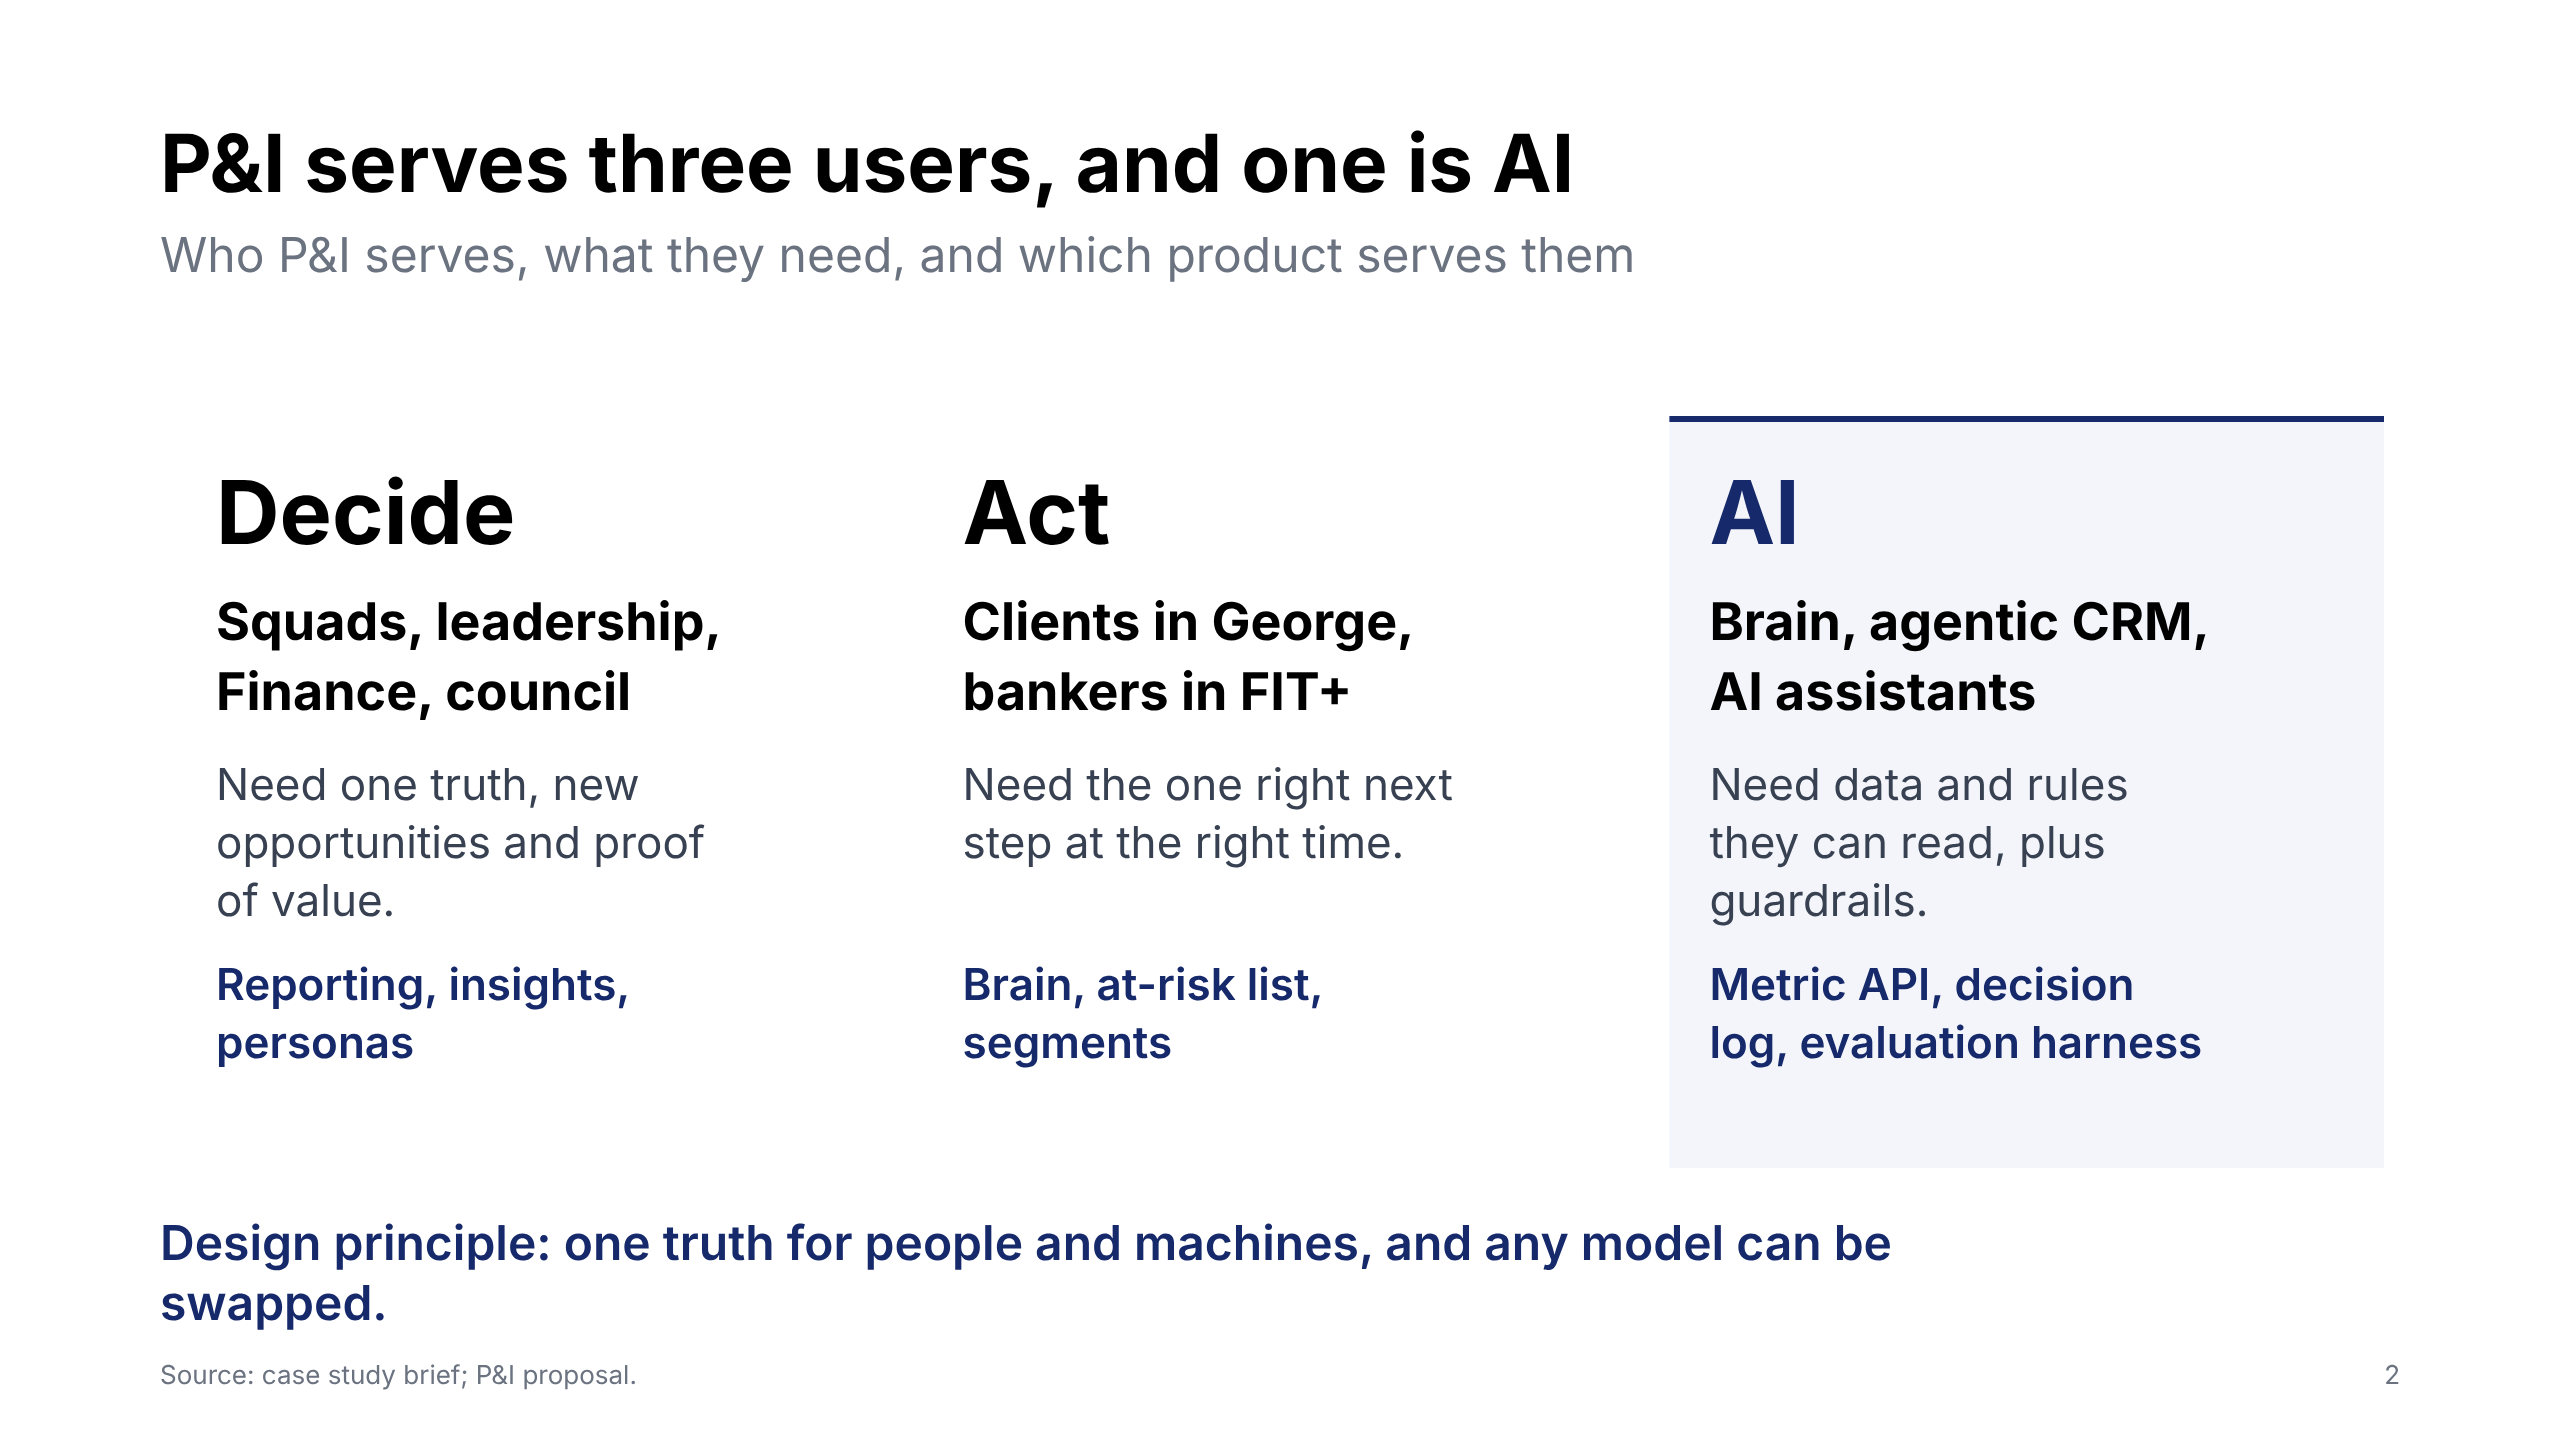
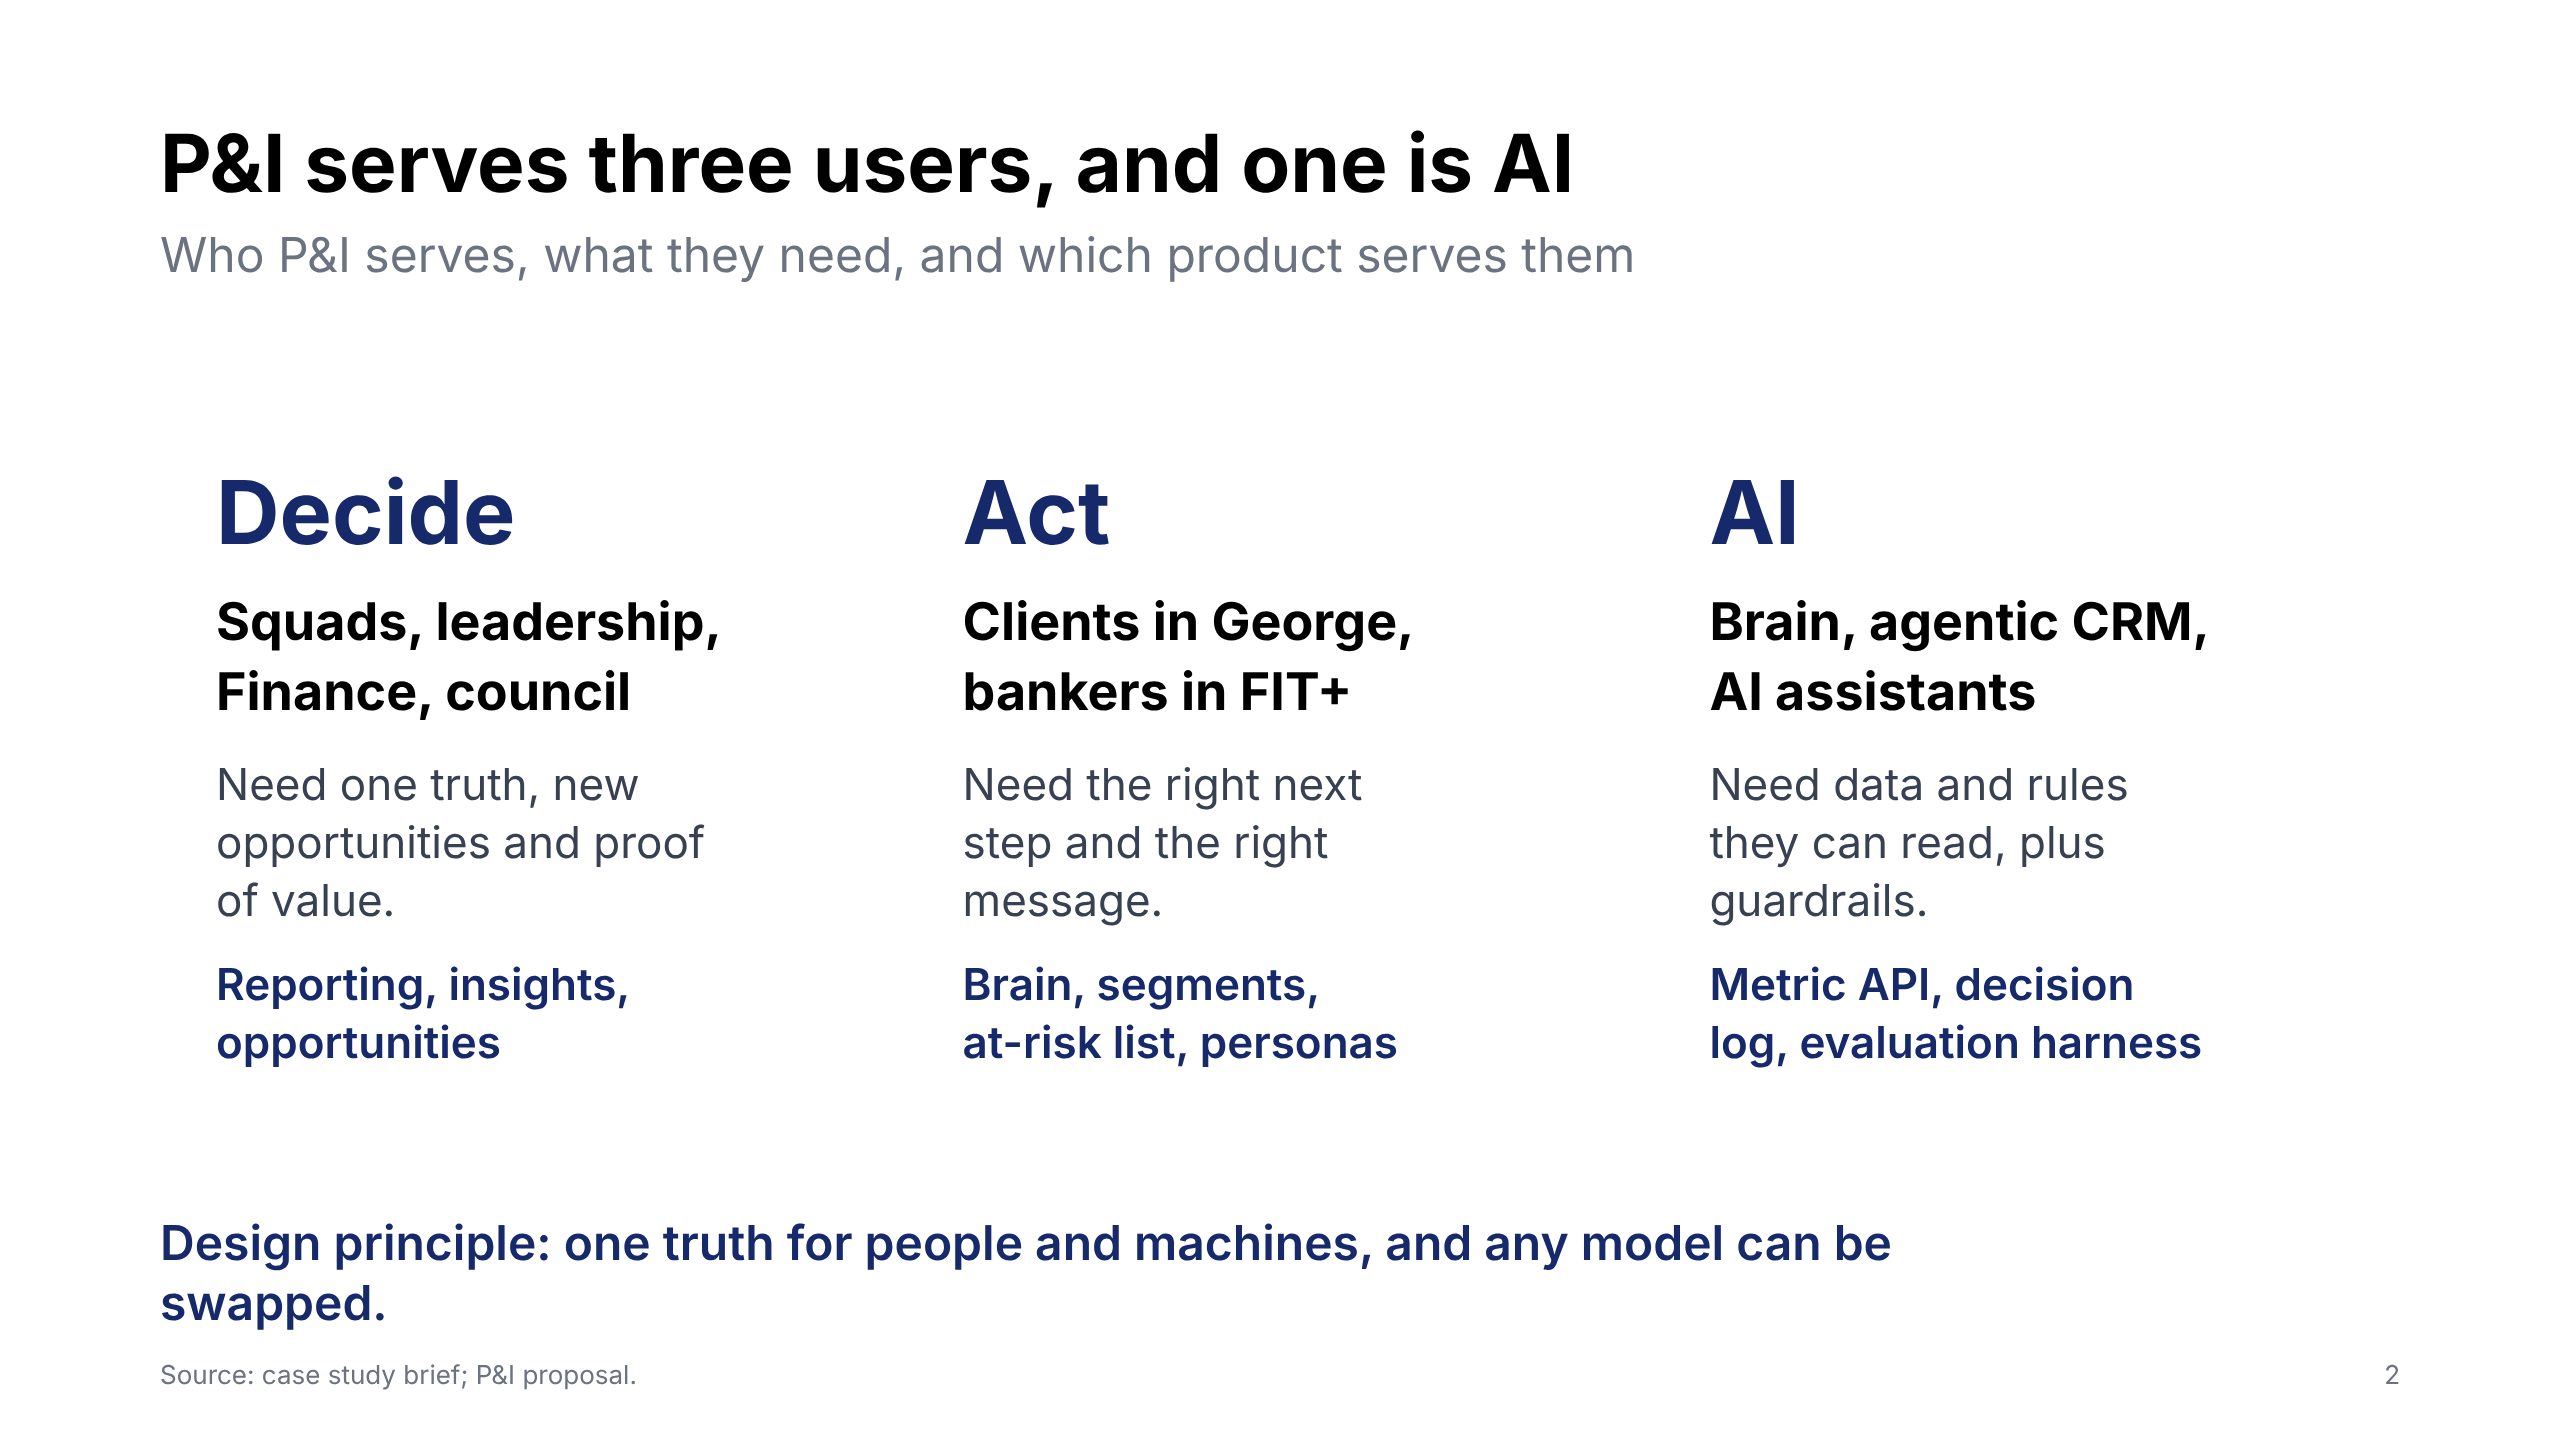
Deck: personas under Act, no highlight on users slide
Claude-Session: https://claude.ai/code/session_019gmTZ7bgw9zuXE3s7xf3V8

diff --git a/deck/pi-case/build_specs.py b/deck/pi-case/build_specs.py
@@ -12,13 +12,12 @@ add("01-cover", {"pattern":"cover","title":"Performance & Intelligence","subtitl
 add("02-users", {"pattern":"summary_strip","headline":"P&I serves three users, and one is AI",
  "subline":"Who P&I serves, what they need, and which product serves them",
  "blocks":[
-  {"metric":"Decide","claim":"Squads, leadership, Finance, council","proof":"Need one truth, new opportunities and proof of value.","implication":"Reporting, insights, personas"},
-  {"metric":"Act","claim":"Clients in George, bankers in FIT+","proof":"Need the one right next step at the right time.","implication":"Brain, at-risk list, segments"},
+  {"metric":"Decide","claim":"Squads, leadership, Finance, council","proof":"Need one truth, new opportunities and proof of value.","implication":"Reporting, insights, opportunities"},
+  {"metric":"Act","claim":"Clients in George, bankers in FIT+","proof":"Need the right next step and the right message.","implication":"Brain, segments, at-risk list, personas"},
   {"metric":"AI","claim":"Brain, agentic CRM, AI assistants","proof":"Need data and rules they can read, plus guardrails.","implication":"Metric API, decision log, evaluation harness"}],
- "focus_block":2,
  "annotation":"Design principle: one truth for people and machines, and any model can be swapped.",
  "page_number":2,"source":"Source: case study brief; P&I proposal.",
- "notes":["Before priorities, who are we building for? Three users.","First, people who decide: the squads, domain leadership, Finance and the concept council. They need one truth, opportunities and proof of value. We serve them with reporting, insights and personas.","Second, people who act: clients in George and bankers in FIT+ and at branches. They need one right next step at the right time. That is Brain, the at-risk list and the segments.","Third, and new: AI itself. Brain, agentic CRM and AI assistants consume our data too. So everything we build must be readable by machines: metric definitions available through an API, every recommendation and its outcome logged, and an evaluation harness so we can test quality and compliance and switch models without rebuilding. These are design principles for how we build the top 5, not an extra workstream."]})
+ "notes":["Before priorities, who are we building for? Three users.","First, people who decide: the squads, domain leadership, Finance and the concept council. They need one truth, opportunities and proof of value. We serve them with reporting, insights and regular opportunity finding.","Second, people who act: clients in George and bankers in FIT+ and at branches. They need the right next step and the right message. That is Brain, the segments, the at-risk list, and personas, which test the message before it reaches real clients.","Third, and new: AI itself. Brain, agentic CRM and AI assistants consume our data too. So everything we build must be readable by machines: metric definitions available through an API, every recommendation and its outcome logged, and an evaluation harness so we can test quality and compliance and switch models without rebuilding. These are design principles for how we build the top 5, not an extra workstream."]})
 
 add("02-answer", {"pattern":"summary_strip","headline":"P&I should make the numbers trustworthy before scaling AI",
  "subline":"The proposal in one page · Five priorities in three moves",
